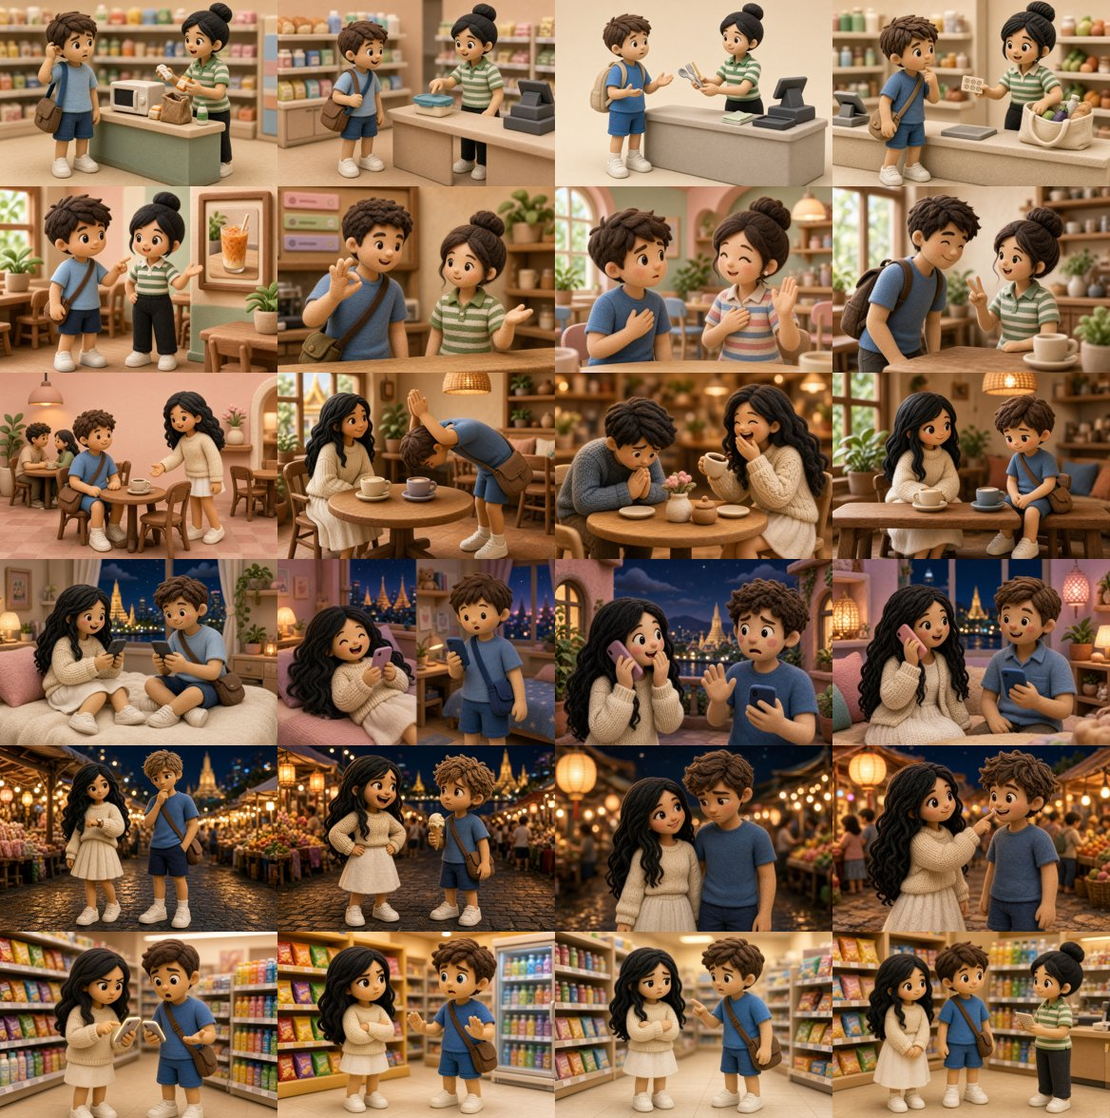
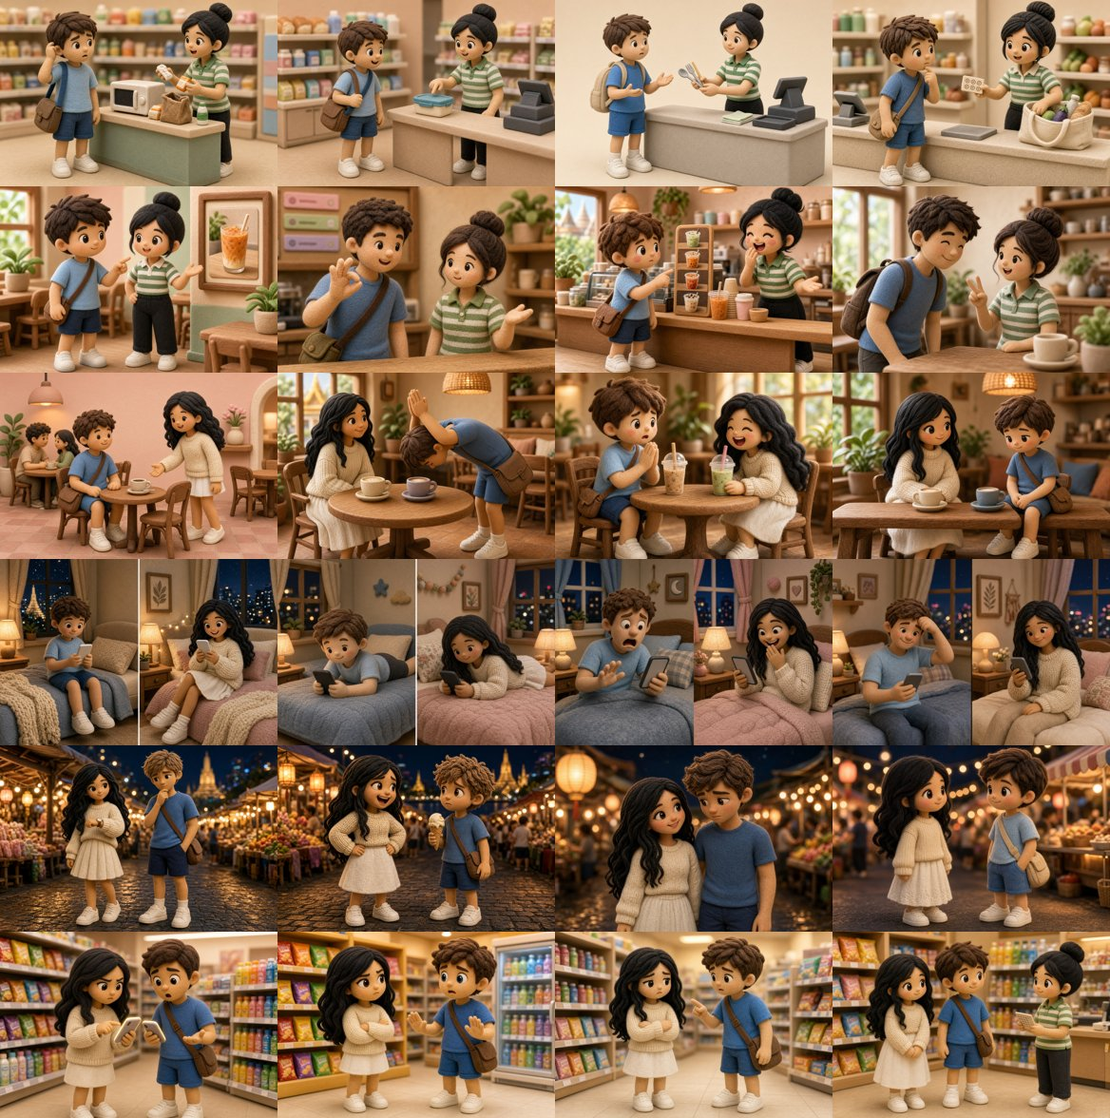
feat(회화): 샘플 6편 다듬기 — R2 침묵 반전 복원·말투(채팅 존댓말/연인 반말)·해설·새 단어 갱신, 장면 컷 재요청 반영
장면 컷 24장은 talkversehanja talkverse_art/scene/th/ 에 올림(uk 매니페스트로 앱 자동 표시).

Claude-Session: https://claude.ai/code/session_0178gmupwERUsCzdtdMvHMMG

Changed region(s): [[0.0, 0.1531, 1.0, 0.8571]]

diff --git a/tools/make_scene_prompt.py b/tools/make_scene_prompt.py
@@ -51,7 +51,9 @@ def main():
         text = (f"[{ep['id']}] 태국어 학습 앱 회화 「{ep['title']}」의 장면 컷 4장을 그려 주세요.\n"
                 f"장면: {ep['scene']}. 장소: {ep.get('where','')}. A = {a_role}, B = {b_role}"
                 + (f", C = {role(who['C'])}" if who.get('C') else '') + ".\n"
-                f"{CHAR}\n{RULES}\n\n컷 구성(대사는 참고용 — 그림에 쓰지 마세요):\n" + '\n'.join(cuts) + "\n")
+                f"{CHAR}\n{RULES}\n"
+                + ("⑦ 채팅 편: 두 사람은 **각자 다른 장소**(각자 자기 방·침대)에서 폰을 보고 있다 — 같은 공간·같은 소파에 함께 그리지 말 것. 각 컷은 화면을 세로로 반 나눈 분할 구도(왼쪽 = 한 사람의 방, 오른쪽 = 다른 사람의 방), 폰 화면에 글자 없음.\n" if ep.get('kind') == 'chat' else '')
+                + "\n컷 구성(대사는 참고용 — 그림에 쓰지 마세요):\n" + '\n'.join(cuts) + "\n")
         p = OUT / f"{ep['id']}_scene_prompt.md"
         p.write_text(text, encoding='utf-8')
         print(p)

diff --git a/data/review/MORNING_20261103.md b/data/review/MORNING_20261103.md
@@ -5,22 +5,15 @@ Grok(M4 공용 Chrome)이 6편 전부 새로 썼고 `tools/apply_rewrite.py` 로
 
 장면 컷(4장씩, 6인 시트 첨부): `data/review/scene/<편id>/img1~4.jpg` — 앱 반영·talkversehanja 푸시는 확인 뒤.
 
-## 아침에 볼 것 (사용자 확인 필요)
+## 처리 결과 (사용자 "니 판단" 위임, 2026-11-03 새벽)
 
-**Zealot**: 빌드 58 업로드 완료 — https://apps.talkverse.uk/ys3pY/219 (새 회화 보기 화면 + 초안 6편. 재작성본은 아직 앱 미반영 — 확정 후 푸시)
-
-**장면 컷 24장** — 한눈에 `data/review/scene/contact_20261103.jpg`(줄 순서 S1·S2·A1·C1·R2·R3). 인물은 6인 시트대로 대체로 일정. 걸리는 것:
-- C1(채팅 편): 둘이 같은 소파에 나란히 앉아 폰을 봄 — 채팅이면 각자 다른 방이어야 함 → 다시 요청 필요
-- A1 컷3: 학습자 옷이 회색 니트로 바뀜 / S2 컷3: 점원 줄무늬가 분홍 → 그 컷만 재요청 후보
-- S1 컷3: 크로스백 대신 백팩(사소)
-
-**Grok 재작성에서 고칠 후보(제 의견)**
-- A1 5·7턴: ฟ้า 가 「ไม่ต้อง(ไหว้)ขนาดนั้น」을 두 번 반복 — 7턴을 칭찬만 남기게
-- R2 반전: 초안의 「침묵 한 턴」이 「아이스크림 입가에 묻었어」로 바뀜 — 이것도 반전이긴 함, 어느 쪽을 쓸지 선택
-- R2 2·6턴·C1 4·6턴: 연인/채팅인데 학습자가 ครับ — 태국 남자는 친한 사이에도 쓰지만 한국어 번역이 존댓말(「알아요」)이라 어긋남 → 번역을 반말로 맞추거나 ครับ 를 빼기
-- R3 10턴: S1 콜백이 「ครับ!」 반사 대답 → 「ไม่ใช่ครับ!」(부정하다 엉겁결에)로 바뀜 — 그대로 둬도 됨
-- 모든 편: `note`·`new` 는 초안 그대로라 새 문장과 안 맞음(확정 뒤 다시 채움)
-
+- **장면 컷**: 채팅 편(C1) 4컷을 각자 방·분할 구도로 다시 받음 · A1 컷3(학습자 옷)·S2 컷3(점원 줄무늬)·R2 컷4(침묵 반전) 재요청 → 24장을 `talkversehanja talkverse_art/scene/th/<편id>/cut1~4.jpg` 에 푸시(앱이 uk 매니페스트로 자동 표시). 한눈에 `data/review/scene/contact_20261103.jpg`.
+- **R2 반전**: 초안의 「침묵 한 턴」으로 복원(아이스크림판은 다음 턴과 이어지지 않음).
+- **말투(태국어 기준)**: 데이팅앱 첫 채팅(C1)은 처음 보는 사이 → 학습자 ครับ 유지, 한국어를 존댓말로 맞춤. 사귀는 사이(R2)는 ครับ 빼고 반말(อะ·นะ).
+- **A1 7턴**: 반복된 「그렇게까지 안 해도 돼」를 빼고 칭찬만.
+- **R3 11·12턴**: 어색한 Grok 문장(ตอบผิดเรื่อง·หึงใช่ไหม จริงดิ)을 「ไม่เปลี่ยนเลยนะ」·「หึงใช่ไหม」로.
+- 전 편 `note`·`new` 를 새 문장에 맞게 다시 씀. 검사 오류 0.
+- Zealot 빌드 58 업로드(https://apps.talkverse.uk/ys3pY/219). 이번 수정은 다음 빌드(59)에 들어감.
 
 ## r1_survival_s1 — 🏪 천천히 말해 주세요 (R1·8턴, 반전 6턴)
 
@@ -145,9 +138,9 @@ Grok(M4 공용 Chrome)이 6편 전부 새로 썼고 `tools/apply_rewrite.py` 로
 어... 이렇게 배웠는데요.
 
 **7. ฟ้า**  
-เว่อร์ไปหน่อย แต่ไม่ต้องไหว้ขนาดนั้น น่ารักอยู่แล้วนะ... ยินดีที่ได้รู้จัก {name}  
-워 빠이 너이 때 마이떵 와이 카낫 난 나락 유래우 나... 인디 티 다이 루짝 {name}  
-좀 과하긴 한데 그렇게까지 안 해도 돼, 이미 귀여우니까... 만나서 반가워, {name}.
+เว่อร์ไปหน่อย แต่น่ารักดีนะ… ยินดีที่ได้รู้จักนะ {name}  
+워 빠이 너이 때 나락 디 나… 인디 티 다이 루짝 나 {name}  
+좀 오버긴 한데, 귀엽네… 만나서 반가워, {name}.
 
 **8. 나**  
 ยินดี... ที่ได้รู้จักเหมือนกันครับ  
@@ -164,9 +157,9 @@ Grok(M4 공용 Chrome)이 6편 전부 새로 썼고 `tools/apply_rewrite.py` 로
 매칭됐어~ 나 파야. 만나서 반가워~
 
 **2. 나**  
-หวัดดีครับ ผม{name}ครับ ทำไรอยู่  
-왓 디 크랍 폼 {name} 크랍 탐 라이 유  
-안녕 나 {name}이야. 뭐 해?
+หวัดดีครับ ผม{name}ครับ ทำไรอยู่ครับ  
+왓 디 크랍 폼 {name} 크랍 탐 라이 유 크랍  
+안녕하세요! 저 {name}이에요. 뭐 해요?
 
 **3. ฟ้า**  
 นอนเล่นมือถืออยู่เลย 555 {name}ล่ะ  
@@ -176,7 +169,7 @@ Grok(M4 공용 Chrome)이 6편 전부 새로 썼고 `tools/apply_rewrite.py` 로
 **4. 나**  
 ฟ้าชอบอะไรครับ  
 파 첩 아라이 크랍  
-파는 뭐 좋아해?
+파는 뭐 좋아해요?
 
 **5. ฟ้า**  
 โห ใจเร็วมากก 555 จีบตั้งแต่แรกเลยเหรอ  
@@ -186,7 +179,7 @@ Grok(M4 공용 Chrome)이 6편 전부 새로 썼고 `tools/apply_rewrite.py` 로
 **6. 나**  
 ไม่ใช่ครับ อาหาร! ชอบกินอะไรครับ!!  
 마이 차이 크랍 아한! 첩 낀 아라이 크랍!!  
-아니야! 음식! 뭐 먹는 거 좋아하냐고!!
+아니에요! 음식이요! 뭐 먹는 거 좋아하냐고요!!
 
 **7. ฟ้า**  
 รู้แล้วว ล้อเล่นนะ 555 ส้มตำ {name}ล่ะ  
@@ -194,9 +187,9 @@ Grok(M4 공용 Chrome)이 6편 전부 새로 썼고 `tools/apply_rewrite.py` 로
 알아 장난이야 ㅋㅋ 쏨땀. {name}은?
 
 **8. 나**  
-เฮ้อ… ส้มตำ ว่างไหม  
-허… 쏨땀 왕 마이  
-휴… 쏨땀. 시간 돼?
+เฮ้อ… ส้มตำครับ ว่างวันไหนครับ  
+허… 쏨땀 크랍 왕 완 나이 크랍  
+휴… 쏨땀이요. 언제 시간 돼요?
 
 ## r2_love_b1 — 🚆 막차, 놓쳐도 될까 (R2·10턴, 반전 7턴)
 
@@ -208,9 +201,9 @@ Grok(M4 공용 Chrome)이 6편 전부 새로 썼고 `tools/apply_rewrite.py` 로
 야, 벌써 11시 다 됐네. BTS 막차 곧이야.
 
 **2. 나**  
-อืม… รู้แล้วครับ  
-음… 루 래우 크랍  
-음… 알아요.
+อืม… รู้แล้ว  
+음… 루 래우  
+음… 알아.
 
 **3. ฟ้า**  
 รู้แล้วยังยืนอยู่ 555 ไม่ไปเหรอ  
@@ -220,32 +213,32 @@ Grok(M4 공용 Chrome)이 6편 전부 새로 썼고 `tools/apply_rewrite.py` 로
 **4. 나**  
 ขออีกแป๊บนึงนะ ไอติมยังเหลือเยอะเลย  
 커 익 뺍 능 나 아이띰 양 르아 여 러이  
-조금만 더요. 아이스크림 아직 많이 남았잖아.
+조금만 더. 아이스크림 아직 많이 남았잖아.
 
 **5. ฟ้า**  
-ไอติมเนี่ยนะ เก่งจริง  
-아이띰 니아 나 껭 찡  
+ไอติมเนี่ยนะ อ้างเก่งจริง  
+아이띰 니아 나 앙 껭 찡  
 아이스크림이라니, 핑계 잘 대네.
 
 **6. 나**  
-ก็… ยังไม่อยากกลับนะครับ  
-꺼… 양 마이 약 끄랍 나 크랍  
-그게… 아직 집에 가기 싫어서요.
+ก็… ยังไม่อยากกลับอะ  
+꺼… 양 마이 약 끄랍 아  
+그게… 아직 집에 가기 싫어서.
 
 **7. ฟ้า**  
-…เดี๋ยว ไอติมติดปากน่ะ 555  
-…디아 아이띰 띳빡 나 555  
-…잠깐, 아이스크림 입가에 묻었잖아 ㅋㅋㅋ
+…  
+…  
+…
 
 **8. 나**  
-อ้าว จริงเหรอ ทำไมไม่พูด  
-아우 찡 러 탐마이 마이 풋  
-어, 진짜야? 왜 말 안 해.
+อ้าว ทำไมเงียบ ว่าไงต่อ  
+아우 탐마이 응이압 와 응아이 떠  
+어, 왜 조용해? 뭐라고 좀 해 봐.
 
 **9. ฟ้า**  
-ก็เราไม่อยากกลับเหมือนกันไง ไม่เป็นไรนะ  
-꺼 라우 마이 약 끄랍 므안깐 응아이 마이뻰라이 나  
-나도 가기 싫으니까. 괜찮아.
+ก็เรา… ไม่อยากกลับเหมือนกันไง  
+꺼 라우… 마이 약 끄랍 므안깐 응아이  
+나도… 가기 싫으니까 그렇지.
 
 **10. 나**  
 งั้นพลาดเที่ยวสุดท้ายก็ได้นะ เนอะ  
@@ -307,14 +300,14 @@ Grok(M4 공용 Chrome)이 6편 전부 새로 썼고 `tools/apply_rewrite.py` 로
 아니에요! …어, 스탬프요? 받을게요. 죄송해요.
 
 **11. ฟ้า**  
-555 เธอนี่ยังตอบผิดเรื่องอีกแล้ว  
-555 터 니 양 떱 핏 르앙 익래우  
-ㅋㅋㅋ 너 진짜 또 엉뚱한 대답이네.
+555 เธอนี่ไม่เปลี่ยนเลยนะ  
+555 터 니 마이 쁘리안 러이 나  
+ㅋㅋㅋ 너 진짜 하나도 안 변했다.
 
 **12. 나**  
-ว่าแต่… หึงใช่ไหม จริงดิ  
-와때… 흥 차이마이 찡 디  
-근데… 질투한 거지, 진짜?
+ว่าแต่… หึงใช่ไหม  
+와때… 흥 차이마이  
+근데… 질투한 거 맞지?
 
 **13. ฟ้า**  
 …นิดเดียวก็ได้  

diff --git a/data/review/r1_love_c1_scene_prompt.md b/data/review/r1_love_c1_scene_prompt.md
@@ -2,9 +2,10 @@
 장면: 데이팅앱에서 ฟ้า 와 매칭된 밤. 첫 1:1 채팅 — 음식 얘기를 하려다 ชอบ 가 고백처럼 읽힌다. 장소: 채팅. A = 학습자(시트 3번 — 남자판. 여자판 그림이 필요하면 4번), B = ฟ้า(시트 1번 ฟ้า(여자 친구·연인)).
 첨부한 캐릭터 시트(6인)의 인물만 등장합니다(점토·펠트 인형 톤, 둥근 얼굴, 따뜻한 조명, 파스텔 배경). 1번 ฟ้า = 골든 탠 피부·긴 흑발 웨이브·환한 미소, 크림 니트(장면에 따라 흰 바이저·테니스 차림). 2번 ต้น = 짧고 단정한 흑발·부드러운 인상·베이지 셔츠·갈색 바지. 3번 학습자(남) · 4번 학습자(여) · 5번 점원 · 6번 노점 아주머니/오토바이 택시 기사. 얼굴·옷은 시트와 똑같이(다른 장면에서도 같은 인물로 보여야 함).
 규칙: ① 그림 안에 글자·말풍선·자막을 절대 넣지 않습니다(말풍선은 앱이 얹습니다) ② 각 컷은 3:2 가로(1168×784), 인물이 크게 ③ 컷마다 그 순간의 표정·몸짓으로 대사의 감정을 보여 주세요 ④ 배경은 방콕(편의점·카페·BTS·야시장 등 장면대로)이되 간판 글자는 없게 ⑤ 실존 인물·브랜드 금지 ⑥ 컷 4장을 한 번에 그려 주세요(cut1~cut4 순서, 같은 인물·같은 옷).
+⑦ 채팅 편: 두 사람은 **각자 다른 장소**(각자 자기 방·침대)에서 폰을 보고 있다 — 같은 공간·같은 소파에 함께 그리지 말 것. 각 컷은 화면을 세로로 반 나눈 분할 구도(왼쪽 = 한 사람의 방, 오른쪽 = 다른 사람의 방), 폰 화면에 글자 없음.
 
 컷 구성(대사는 참고용 — 그림에 쓰지 마세요):
-cut1 (턴 1~2): B: 매칭됐어~ 나 파야. 만나서 반가워~ / A: 안녕 나 {name}이야. 뭐 해?
-cut2 (턴 3~4): B: 누워서 폰 보고 있어 ㅋㅋ {name}은? / A: 파는 뭐 좋아해?
-cut3 (턴 5~6): B: 헐 마음 너무 급하다 ㅋㅋ 첫 채팅부터 작업하는 거야? / A: 아니야! 음식! 뭐 먹는 거 좋아하냐고!!
-cut4 (턴 7~8): B: 알아 장난이야 ㅋㅋ 쏨땀. {name}은? / A: 휴… 쏨땀. 시간 돼?
+cut1 (턴 1~2): B: 매칭됐어~ 나 파야. 만나서 반가워~ / A: 안녕하세요! 저 {name}이에요. 뭐 해요?
+cut2 (턴 3~4): B: 누워서 폰 보고 있어 ㅋㅋ {name}은? / A: 파는 뭐 좋아해요?
+cut3 (턴 5~6): B: 헐 마음 너무 급하다 ㅋㅋ 첫 채팅부터 작업하는 거야? / A: 아니에요! 음식이요! 뭐 먹는 거 좋아하냐고요!!
+cut4 (턴 7~8): B: 알아 장난이야 ㅋㅋ 쏨땀. {name}은? / A: 휴… 쏨땀이요. 언제 시간 돼요?

diff --git a/data/review/r2_love_b1_scene_cut4_prompt.md b/data/review/r2_love_b1_scene_cut4_prompt.md
@@ -1,0 +1,7 @@
+[r2_love_b1] 태국어 학습 앱 회화 「막차, 놓쳐도 될까」의 장면 컷 cut4 1장을 다시 그려 주세요. cut4 는 「침묵」이 핵심입니다: ฟ้า 가 놀리던 표정을 멈추고 말없이 학습자를 바라보다(살짝 붉어진 볼), 이어 둘 다 수줍게 웃는 순간. 아이스크림이 입가에 묻은 장면은 그리지 마세요.
+장면: 야시장 데이트가 끝나 가는 밤. BTS 막차 시간이 다가오는데 둘 다 헤어지기 싫다. 장소: 야시장 앞. A = 학습자(시트 3번 — 남자판. 여자판 그림이 필요하면 4번), B = ฟ้า(시트 1번 ฟ้า(여자 친구·연인)).
+첨부한 캐릭터 시트(6인)의 인물만 등장합니다(점토·펠트 인형 톤, 둥근 얼굴, 따뜻한 조명, 파스텔 배경). 1번 ฟ้า = 골든 탠 피부·긴 흑발 웨이브·환한 미소, 크림 니트(장면에 따라 흰 바이저·테니스 차림). 2번 ต้น = 짧고 단정한 흑발·부드러운 인상·베이지 셔츠·갈색 바지. 3번 학습자(남) · 4번 학습자(여) · 5번 점원 · 6번 노점 아주머니/오토바이 택시 기사. 얼굴·옷은 시트와 똑같이(다른 장면에서도 같은 인물로 보여야 함).
+규칙: ① 그림 안에 글자·말풍선·자막을 절대 넣지 않습니다(말풍선은 앱이 얹습니다) ② 각 컷은 3:2 가로(1168×784), 인물이 크게 ③ 컷마다 그 순간의 표정·몸짓으로 대사의 감정을 보여 주세요 ④ 배경은 방콕(편의점·카페·BTS·야시장 등 장면대로)이되 간판 글자는 없게 ⑤ 실존 인물·브랜드 금지 ⑥ 이번에는 cut4 **1장만** 다시 그려 주세요(같은 인물·같은 옷).
+
+컷 구성(대사는 참고용 — 그림에 쓰지 마세요):
+cut4 (턴 7~10): B: … / A: 어, 왜 조용해? 뭐라고 좀 해 봐. / B: 나도… 가기 싫으니까 그렇지. / A: 그럼 막차 놓쳐도 되네. 그치?

diff --git a/data/review/r1_love_a1_scene_cut3_prompt.md b/data/review/r1_love_a1_scene_cut3_prompt.md
@@ -1,0 +1,7 @@
+[r1_love_a1] 태국어 학습 앱 회화 「절하는 거야?」의 장면 컷 cut3 1장을 다시 그려 주세요. 앞서 그린 판은 학습자 옷이 회색 니트로 바뀌어 있었습니다 — 시트 3번 그대로 연하늘 티셔츠·남색 반바지·크로스백으로.
+장면: 대학가 카페, 빈자리가 없어 ฟ้า 가 먼저 합석을 청한다. 학습자는 배운 ไหว้ 인사를 너무 깊게 해 버린다. 장소: 카페. A = 학습자(시트 3번 — 남자판. 여자판 그림이 필요하면 4번), B = ฟ้า(시트 1번 ฟ้า(여자 친구·연인)).
+첨부한 캐릭터 시트(6인)의 인물만 등장합니다(점토·펠트 인형 톤, 둥근 얼굴, 따뜻한 조명, 파스텔 배경). 1번 ฟ้า = 골든 탠 피부·긴 흑발 웨이브·환한 미소, 크림 니트(장면에 따라 흰 바이저·테니스 차림). 2번 ต้น = 짧고 단정한 흑발·부드러운 인상·베이지 셔츠·갈색 바지. 3번 학습자(남) · 4번 학습자(여) · 5번 점원 · 6번 노점 아주머니/오토바이 택시 기사. 얼굴·옷은 시트와 똑같이(다른 장면에서도 같은 인물로 보여야 함).
+규칙: ① 그림 안에 글자·말풍선·자막을 절대 넣지 않습니다(말풍선은 앱이 얹습니다) ② 각 컷은 3:2 가로(1168×784), 인물이 크게 ③ 컷마다 그 순간의 표정·몸짓으로 대사의 감정을 보여 주세요 ④ 배경은 방콕(편의점·카페·BTS·야시장 등 장면대로)이되 간판 글자는 없게 ⑤ 실존 인물·브랜드 금지 ⑥ 이번에는 cut3 **1장만** 다시 그려 주세요(같은 인물·같은 옷).
+
+컷 구성(대사는 참고용 — 그림에 쓰지 마세요):
+cut3 (턴 5~6): B: ㅋㅋㅋㅋㅋ 와, 그렇게 깊게 하면 내 음료가 거의 쏟아질 뻔했잖아. 그렇게까지 안 해도 돼. / A: 어... 이렇게 배웠는데요.

diff --git a/data/review/r1_survival_s2_scene_cut3_prompt.md b/data/review/r1_survival_s2_scene_cut3_prompt.md
@@ -1,0 +1,7 @@
+[r1_survival_s2] 태국어 학습 앱 회화 「이거 태국어로 뭐예요?」의 장면 컷 cut3 1장을 다시 그려 주세요. 앞서 그린 판은 점원 셔츠 줄무늬가 분홍이었습니다 — 시트 5번 그대로 초록 줄무늬 유니폼·검은 바지·묶음머리로.
+장면: 대학가 카페. 메뉴 사진을 가리키며 이름을 묻고 배운 말로 주문하는데, '안 달게'가 통하지 않는다. 장소: 카페. A = 학습자(시트 3번 — 남자판. 여자판 그림이 필요하면 4번), B = พนักงาน(시트 5번 편의점·카페 점원).
+첨부한 캐릭터 시트(6인)의 인물만 등장합니다(점토·펠트 인형 톤, 둥근 얼굴, 따뜻한 조명, 파스텔 배경). 1번 ฟ้า = 골든 탠 피부·긴 흑발 웨이브·환한 미소, 크림 니트(장면에 따라 흰 바이저·테니스 차림). 2번 ต้น = 짧고 단정한 흑발·부드러운 인상·베이지 셔츠·갈색 바지. 3번 학습자(남) · 4번 학습자(여) · 5번 점원 · 6번 노점 아주머니/오토바이 택시 기사. 얼굴·옷은 시트와 똑같이(다른 장면에서도 같은 인물로 보여야 함).
+규칙: ① 그림 안에 글자·말풍선·자막을 절대 넣지 않습니다(말풍선은 앱이 얹습니다) ② 각 컷은 3:2 가로(1168×784), 인물이 크게 ③ 컷마다 그 순간의 표정·몸짓으로 대사의 감정을 보여 주세요 ④ 배경은 방콕(편의점·카페·BTS·야시장 등 장면대로)이되 간판 글자는 없게 ⑤ 실존 인물·브랜드 금지 ⑥ 이번에는 cut3 **1장만** 다시 그려 주세요(같은 인물·같은 옷).
+
+컷 구성(대사는 참고용 — 그림에 쓰지 마세요):
+cut3 (턴 5~6): A: 네, 저 단 거 별로 안 좋아해요. / B: ㅋㅋㅋ 안 단 차옌은 없거든요! 안 달면 차옌이 아니잖아요. 덜 달게는 돼요?

diff --git a/data/review/scene/r1_love_c1.md b/data/review/scene/r1_love_c1.md
@@ -1,18 +1,12 @@
-컷 1~4를 캐릭터 시트 스타일(점토·펠트 인형 톤, 둥근 얼굴, 따뜻한 조명, 파스텔)에 맞춰 생성했습니다.
+컷 1~4 (채팅 분할 구도)
 
-글자·말풍선·자막·간판 글자는 전혀 넣지 않았고, 인물이 크게 보이도록 3:2 가로 구도로 그렸습니다.
+첨부 캐릭터 시트 스타일(점토·펠트 인형, 둥근 얼굴, 따뜻한 조명, 파스텔)을 그대로 유지했습니다.
 
-B = ฟ้า(긴 웨이브 흑발·크림 니트·흰 스커트), A = 학습자(남, 시트 3번: 단정한 브라운 헤어·블루 티셔츠·쇼츠·크로스백).
+각 컷은 세로 분할(왼쪽=학습자 남·자기 방/침대, 오른쪽=ฟ้า·자기 방/침대), 폰 화면 글자 없음, 말풍선·자막·간판 글자 없음.
 
-Cut 1 (매칭 직후, 서로 인사)
+cut1 — 매칭 인사 (기쁜 미소)
+cut2 — 누워서 폰 보는 중 (편안한 표정)
+cut3 — “작업하는 거야?” (놀리는 웃음 vs 당황)
+cut4 — 장난이었다 + 쏨땀 (안도 후 관심)
 
-Cut 2 (누워 폰 보는 중 / “뭐 좋아해?”)
-
-Cut 3 (작업하는 거야? → 음식이라고 급히 해명)
-
-Cut 4 (장난이야 ㅋㅋ 쏨땀 / 시간 돼?)
-
-
-배경은 밤의 방콕 느낌(창밖 사원·도시 불빛)으로  softly 넣었고, 옷·얼굴 특징은 시트와 최대한 맞췄습니다.
-
-필요하면 특정 컷만 표정·포즈를 더 조정해 드릴게요!
+4컷 모두 같은 인물·같은 옷·각자 방 분할 구도로 맞춰 두었습니다. 표정·몸짓만 대사 감정에 맞게 변화시켰습니다. 수정이 필요하면 말씀해 주세요.

diff --git a/data/review/r2_love_b1_scene_prompt.md b/data/review/r2_love_b1_scene_prompt.md
@@ -4,7 +4,7 @@
 규칙: ① 그림 안에 글자·말풍선·자막을 절대 넣지 않습니다(말풍선은 앱이 얹습니다) ② 각 컷은 3:2 가로(1168×784), 인물이 크게 ③ 컷마다 그 순간의 표정·몸짓으로 대사의 감정을 보여 주세요 ④ 배경은 방콕(편의점·카페·BTS·야시장 등 장면대로)이되 간판 글자는 없게 ⑤ 실존 인물·브랜드 금지 ⑥ 컷 4장을 한 번에 그려 주세요(cut1~cut4 순서, 같은 인물·같은 옷).
 
 컷 구성(대사는 참고용 — 그림에 쓰지 마세요):
-cut1 (턴 1~2): B: 야, 벌써 11시 다 됐네. BTS 막차 곧이야. / A: 음… 알아요.
-cut2 (턴 3~4): B: 알았으면서 아직 서 있네 ㅋㅋㅋ 안 가? / A: 조금만 더요. 아이스크림 아직 많이 남았잖아.
-cut3 (턴 5~6): B: 아이스크림이라니, 핑계 잘 대네. / A: 그게… 아직 집에 가기 싫어서요.
-cut4 (턴 7~10): B: …잠깐, 아이스크림 입가에 묻었잖아 ㅋㅋㅋ / A: 어, 진짜야? 왜 말 안 해. / B: 나도 가기 싫으니까. 괜찮아. / A: 그럼 막차 놓쳐도 되네. 그치?
+cut1 (턴 1~2): B: 야, 벌써 11시 다 됐네. BTS 막차 곧이야. / A: 음… 알아.
+cut2 (턴 3~4): B: 알았으면서 아직 서 있네 ㅋㅋㅋ 안 가? / A: 조금만 더. 아이스크림 아직 많이 남았잖아.
+cut3 (턴 5~6): B: 아이스크림이라니, 핑계 잘 대네. / A: 그게… 아직 집에 가기 싫어서.
+cut4 (턴 7~10): B: … / A: 어, 왜 조용해? 뭐라고 좀 해 봐. / B: 나도… 가기 싫으니까 그렇지. / A: 그럼 막차 놓쳐도 되네. 그치?

diff --git a/data/review/r1_love_a1_scene_prompt.md b/data/review/r1_love_a1_scene_prompt.md
@@ -7,4 +7,4 @@
 cut1 (턴 1~2): B: 저기, 여기 앉아도 돼? 가게가 완전 만석이네. / A: 네, 앉으세요.
 cut2 (턴 3~4): B: 고마워. 나 파야. 너 이름 뭐야? / A: 저는 {name}이에요. 안녕하세요.
 cut3 (턴 5~6): B: ㅋㅋㅋㅋㅋ 와, 그렇게 깊게 하면 내 음료가 거의 쏟아질 뻔했잖아. 그렇게까지 안 해도 돼. / A: 어... 이렇게 배웠는데요.
-cut4 (턴 7~8): B: 좀 과하긴 한데 그렇게까지 안 해도 돼, 이미 귀여우니까... 만나서 반가워, {name}. / A: 저도... 만나서 반가워요.
+cut4 (턴 7~8): B: 좀 오버긴 한데, 귀엽네… 만나서 반가워, {name}. / A: 저도... 만나서 반가워요.
